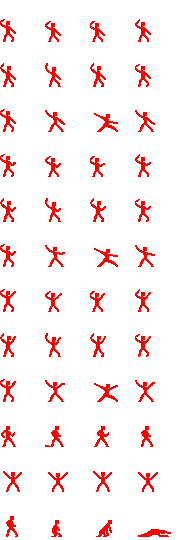
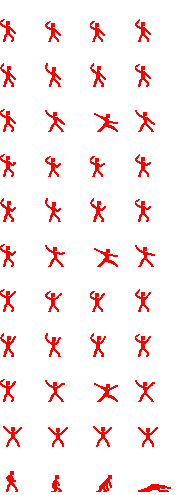
AI, Character이미지 변경 -> 달리기 모션 제외

diff --git a/character.py b/character.py
@@ -25,10 +25,22 @@ def down_down(e):
     return e[0] == 'INPUT' and e[1].type == SDL_KEYDOWN and e[1].key == SDLK_DOWN
 
 
+def D_down(e):
+    return e[0] == 'INPUT' and e[1].type == SDL_KEYDOWN and e[1].key == SDLK_d
+
+
+def D_up(e):
+    return e[0] == 'INPUT' and e[1].type == SDL_KEYUP and e[1].key == SDLK_d
+
+
 class Run:
 
     @staticmethod
     def enter(character, e):
+        if right_down(e) or left_up(e):
+            character.dir = 1
+        elif left_down(e) or right_up(e):
+            character.dir = -1
         pass
 
     @staticmethod
@@ -38,26 +50,26 @@ class Run:
     @staticmethod
     def do(character):
         character.frame = (character.frame + 1) % 4
-        delay(0.07)
+        character.x += character.dir * 10
+        delay(0.05)
 
     @staticmethod
     def draw(character):
-        character.image.clip_draw(character.frame * 45, 90, 45, 45, character.x, 150, 135, 135)
+        pass
 
 
 class Move:
 
     @staticmethod
     def enter(character, e):
-        if right_down(e) or left_up(e): # 오른쪽으로 Move
+        if right_down(e) or left_up(e):  # 오른쪽으로 Move
             character.dir = 1
-        elif left_down(e) or right_up(e): # 왼쪽으로 Move
+        elif left_down(e) or right_up(e):  # 왼쪽으로 Move
             character.dir = -1
         if up_down(e) and character.sword_position < 2:
             character.sword_position += 1
         if down_down(e) and character.sword_position > 0:
             character.sword_position -= 1
-
 
     @staticmethod
     def exit(character, e):
@@ -72,11 +84,11 @@ class Move:
     @staticmethod
     def draw(character):
         if character.dir == 1:
-            character.image.clip_draw(character.frame * 45, 450 - (135 * character.sword_position), 45, 45, character.x,
-                                  150, 135, 135)
+            character.image.clip_draw(character.frame * 45, 405 - (135 * character.sword_position), 45, 45, character.x,
+                                      150, 135, 135)
         elif character.dir == -1:
-            character.image.clip_composite_draw(character.frame * 45, 450 - (135 * character.sword_position), 45, 45, 0, 'h', character.x - 90,
-                                  150, 135, 135)
+            character.image.clip_composite_draw(character.frame * 45, 405 - (135 * character.sword_position), 45, 45, 0,
+                                                'h', character.x - 90, 150, 135, 135)
 
 
 class Idle:
@@ -94,16 +106,16 @@ class Idle:
     @staticmethod
     def do(character):
         character.frame = (character.frame + 1) % 4
-        delay(0.1)
+        delay(0.15)
 
     @staticmethod
     def draw(character):
         if character.dir == 1:
-            character.image.clip_draw(character.frame * 45, 495 - (135 * character.sword_position), 45, 45, character.x,
+            character.image.clip_draw(character.frame * 45, 450 - (135 * character.sword_position), 45, 45, character.x,
                                       150, 135, 135)
         elif character.dir == -1:
-            character.image.clip_composite_draw(character.frame * 45, 495 - (135 * character.sword_position), 45, 45, 0, 'h', character.x - 90,
-                                  150, 135, 135)
+            character.image.clip_composite_draw(character.frame * 45, 450 - (135 * character.sword_position), 45, 45, 0,
+                                                'h', character.x - 90, 150, 135, 135)
 
 
 class StateMachine:
@@ -112,7 +124,9 @@ class StateMachine:
         self.cur_state = Idle
         self.transitions = {
             Idle: {right_down: Move, left_down: Move, left_up: Move, right_up: Move, up_down: Idle, down_down: Idle},
-            Move: {right_down: Idle, left_down: Idle, right_up: Idle, left_up: Idle, up_down: Move, down_down: Move},
+            Move: {right_down: Idle, left_down: Idle, right_up: Idle, left_up: Idle, up_down: Move, down_down: Move,
+                   D_down: Run},
+            Run: {right_down: Idle, left_down: Idle, right_up: Idle, left_up: Idle, D_up: Move},
         }
 
     def start(self):
@@ -139,7 +153,7 @@ class Character:
     def __init__(self):
         self.x = 200
         self.sword_position = 1  # 검의 위치 / 상단 2 , 중단 1, 하단 0
-        self.dir = 1             # 캐릭터의 방향
+        self.dir = 1  # 캐릭터의 방향
         self.frame = 0
         self.image = load_image('character.png')
         self.state_machine = StateMachine(self)
